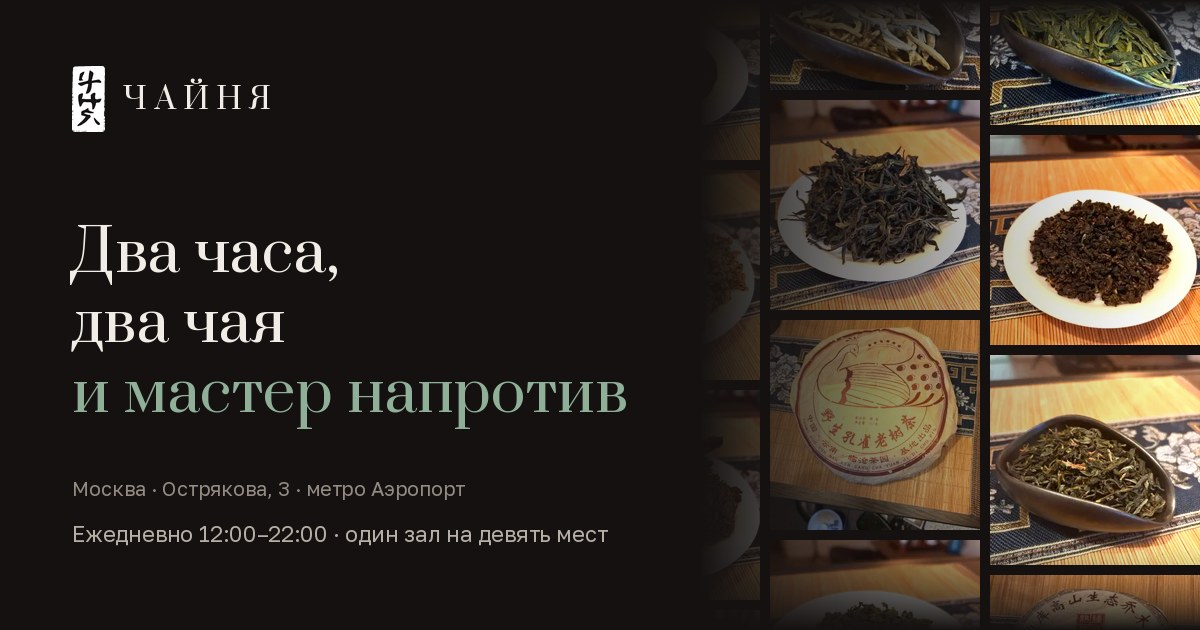
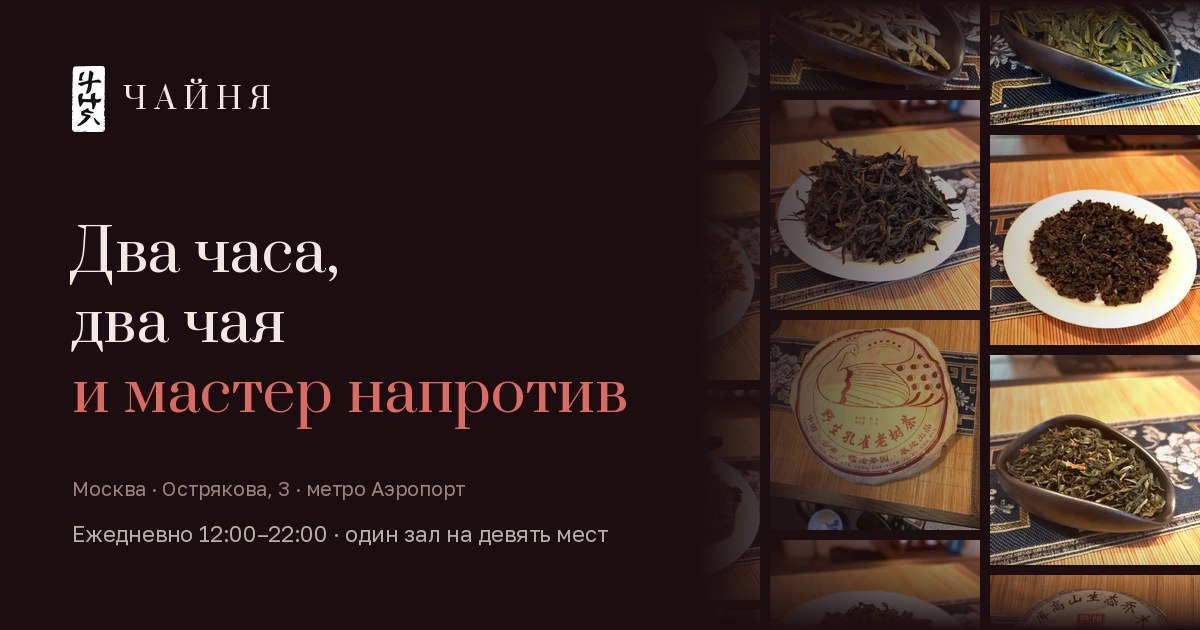
Бордово-красная тема вместо зелёной
Заказчик попросил сайт в бордово-красном стиле. Перекрашены все четыре
блока токенов (светлая :root, @user dark, оба data-theme). Это не подмена
зелёного на красный, а цельный винный мир: глубокий оксблад в тёмной теме
и бледный винный ivory в светлой, кармин/бордо в акценте, кремовый и
розово-таупе текст. Цвета настоя (--lq-*) не тронуты — это данные.

Контраст выверен по WCAG AA в обеих темах (минимум 4.7): акцент тёмной
темы поднят до #DB6A62, чтобы мелкий акцентный текст на карточках
(ховер «о чае») давал ≥4.5 на bg-3.

theme-color (строка браузера на мобиле) и превью-карточка (make_og.py:
фон + акцентная строка) приведены к новой палитре. Хэш og сменился →
имя og.e998570e.jpg (кэш превью сам инвалидируется).

Changed region(s): [[0.0617, 0.6032, 0.5242, 0.6937]]

diff --git a/src.html b/src.html
@@ -3,19 +3,19 @@
 
 /* ─────────────────────────  ТОКЕНЫ  ───────────────────────── */
 :root{
-  /* Светлая тема — бумага чайной карты: прохладная, серо-зелёная */
-  --bg:        #E7E6DF;
-  --bg-2:      #DEDDD4;
-  --bg-3:      #F2F1EC;
-  --line:      #CBCABF;
-  --line-soft: #DCDBD1;
-  --text:      #191715;
-  --text-2:    #454239;
-  --text-3:    #615E54;
-  --accent:    #3C6449;
-  --accent-2:  #547D60;
-  --accent-hover: #325541;
-  --on-accent: #F2F1EC;
+  /* Светлая тема — бумага чайной карты в тёплом винном тоне */
+  --bg:        #F4EBE8;
+  --bg-2:      #EADCD8;
+  --bg-3:      #FAF4F1;
+  --line:      #DAC7C2;
+  --line-soft: #E9DBD6;
+  --text:      #26100F;
+  --text-2:    #533032;
+  --text-3:    #755050;
+  --accent:    #97242C;
+  --accent-2:  #B23A3A;
+  --accent-hover: #7C1C24;
+  --on-accent: #FAF0EB;
   color-scheme: light;
   --blend:     multiply;
   --grain:     .035;
@@ -36,21 +36,21 @@
   --ease: cubic-bezier(.22,.61,.36,1);
 }
 
-/* Тёмная тема — сам зал: лампа, глина, тёплый уголь */
+/* Тёмная тема — сам зал: винный сумрак, лампа, тёплая глина */
 @media (prefers-color-scheme: dark){
   :root{
-    --bg:        #141110;
-    --bg-2:      #1B1817;
-    --bg-3:      #232020;
-    --line:      #332E2B;
-    --line-soft: #262221;
-    --text:      #F1EDE6;
-    --text-2:    #B6AFA6;
-    --text-3:    #948C83;
-    --accent:    #6E9178;
-    --accent-2:  #8FAF98;
-    --accent-hover: #8FAF98;
-    --on-accent: #101614;
+    --bg:        #1C0E10;
+    --bg-2:      #251418;
+    --bg-3:      #2E181D;
+    --line:      #43242A;
+    --line-soft: #331B20;
+    --text:      #F4E8E4;
+    --text-2:    #CBAEA9;
+    --text-3:    #9E827E;
+    --accent:    #DB6A62;
+    --accent-2:  #E68F87;
+    --accent-hover: #E68F87;
+    --on-accent: #1C0E10;
     color-scheme: dark;
     --blend:     screen;
     --grain:     .05;
@@ -58,15 +58,15 @@
   }
 }
 :root[data-theme="light"]{
-  --bg:#E7E6DF; --bg-2:#DEDDD4; --bg-3:#F2F1EC; --line:#CBCABF; --line-soft:#DCDBD1;
-  --text:#191715; --text-2:#454239; --text-3:#615E54;
-  --accent:#3C6449; --accent-2:#547D60; --accent-hover:#325541; --on-accent:#F2F1EC;
+  --bg:#F4EBE8; --bg-2:#EADCD8; --bg-3:#FAF4F1; --line:#DAC7C2; --line-soft:#E9DBD6;
+  --text:#26100F; --text-2:#533032; --text-3:#755050;
+  --accent:#97242C; --accent-2:#B23A3A; --accent-hover:#7C1C24; --on-accent:#FAF0EB;
   --blend:multiply; --grain:.035; --w-body:410; color-scheme:light;
 }
 :root[data-theme="dark"]{
-  --bg:#141110; --bg-2:#1B1817; --bg-3:#232020; --line:#332E2B; --line-soft:#262221;
-  --text:#F1EDE6; --text-2:#B6AFA6; --text-3:#948C83;
-  --accent:#6E9178; --accent-2:#8FAF98; --accent-hover:#8FAF98; --on-accent:#101614;
+  --bg:#1C0E10; --bg-2:#251418; --bg-3:#2E181D; --line:#43242A; --line-soft:#331B20;
+  --text:#F4E8E4; --text-2:#CBAEA9; --text-3:#9E827E;
+  --accent:#DB6A62; --accent-2:#E68F87; --accent-hover:#E68F87; --on-accent:#1C0E10;
   --blend:screen; --grain:.05; --w-body:440; color-scheme:dark;
 }
 

diff --git a/make_og.py b/make_og.py
@@ -17,10 +17,10 @@ from PIL import Image, ImageDraw, ImageEnhance, ImageFont
 root = pathlib.Path(__file__).parent
 
 W, H = 1200, 630
-BG = (20, 17, 16)
-INK = (241, 237, 230)
-JADE = (143, 175, 152)
-MUTE = (148, 140, 131)
+BG = (28, 14, 16)         # #1C0E10 — винный сумрак, как тёмная тема сайта
+INK = (244, 232, 228)     # #F4E8E4
+ACCENT = (219, 106, 98)   # #DB6A62 — акцент сайта (тёмная тема), кармин
+MUTE = (158, 130, 126)    # #9E827E
 
 
 # Сайту хватает woff2-сабсетов, но Pillow их не читает и не умеет подменять
@@ -96,7 +96,7 @@ d.text((X + mark.width + 18, 66 + mh // 2), "Ч А Й Н Я", font=f_brand, fill
 
 # ── заголовок: тот же оффер, что в герое ──
 f_h = prata(58)
-lines = [("Два часа,", INK), ("два чая", INK), ("и мастер напротив", JADE)]
+lines = [("Два часа,", INK), ("два чая", INK), ("и мастер напротив", ACCENT)]
 y = 214
 for text, color in lines:
     d.text((X, y), text, font=f_h, fill=color)

diff --git a/build.py b/build.py
@@ -46,8 +46,8 @@ OG_SRC = root / "src-assets" / "og.jpg"
 OG_NAME = f"og.{hashlib.sha256(OG_SRC.read_bytes()).hexdigest()[:8]}.jpg"
 
 HEAD_EXTRA = f"""<meta name="description" content="{DESC}">
-<meta name="theme-color" content="#141110" media="(prefers-color-scheme: dark)">
-<meta name="theme-color" content="#E7E6DF" media="(prefers-color-scheme: light)">
+<meta name="theme-color" content="#1C0E10" media="(prefers-color-scheme: dark)">
+<meta name="theme-color" content="#F4EBE8" media="(prefers-color-scheme: light)">
 <meta property="og:type" content="website">
 <meta property="og:title" content="{TITLE}">
 <meta property="og:description" content="{DESC}">